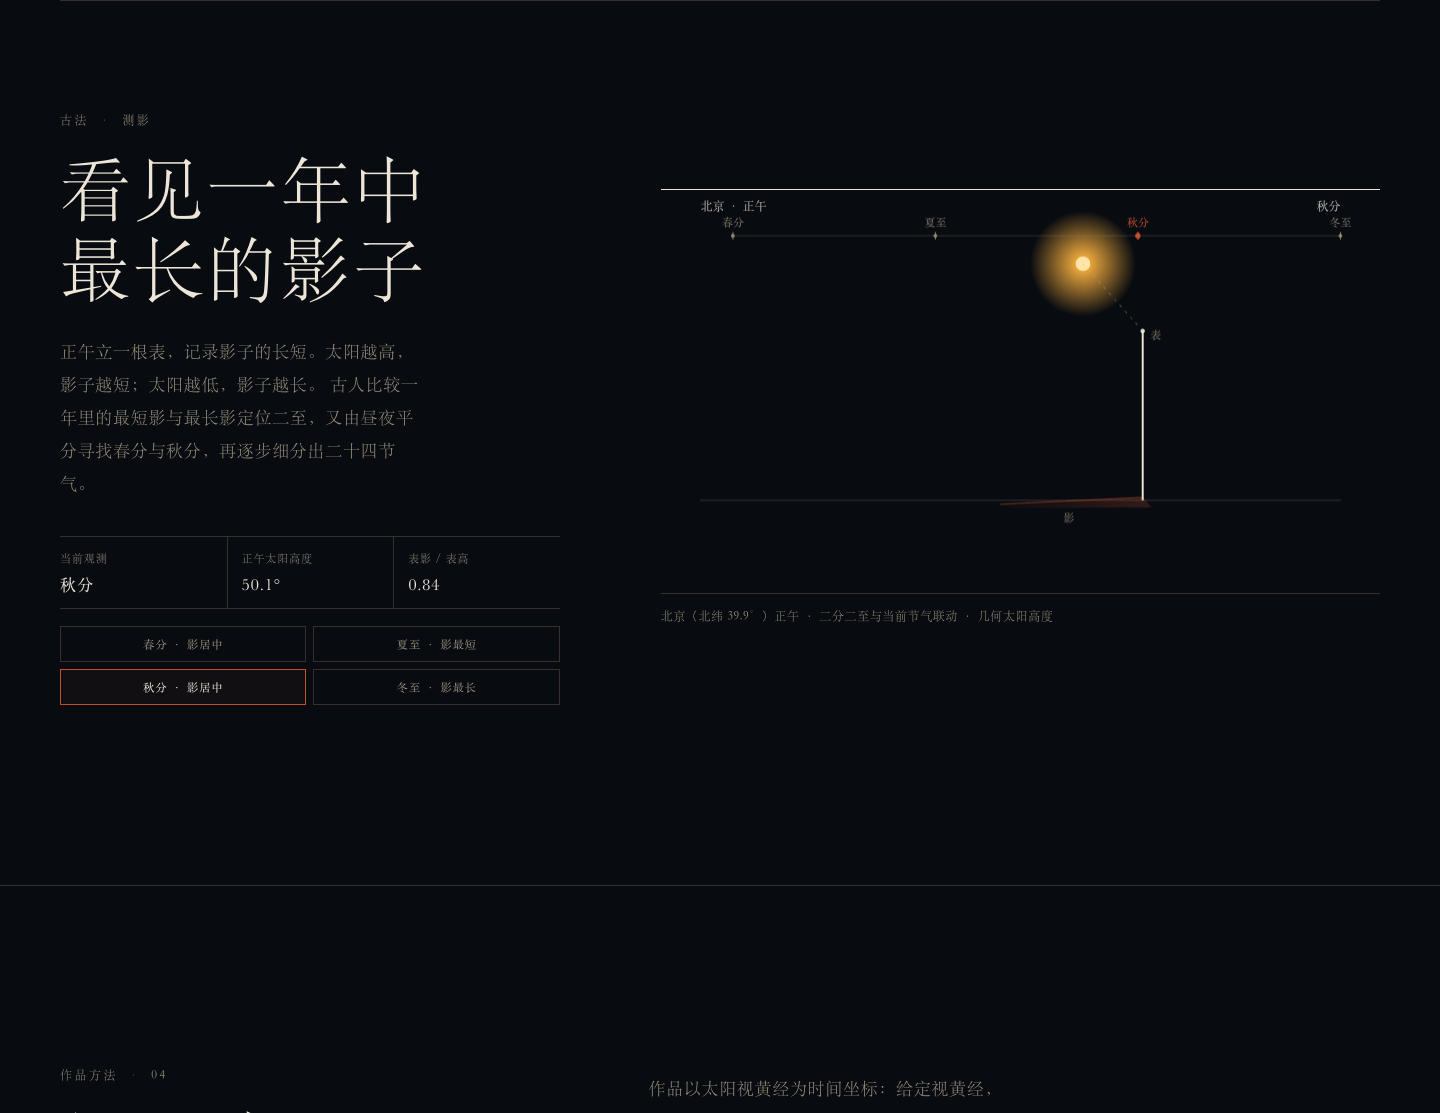
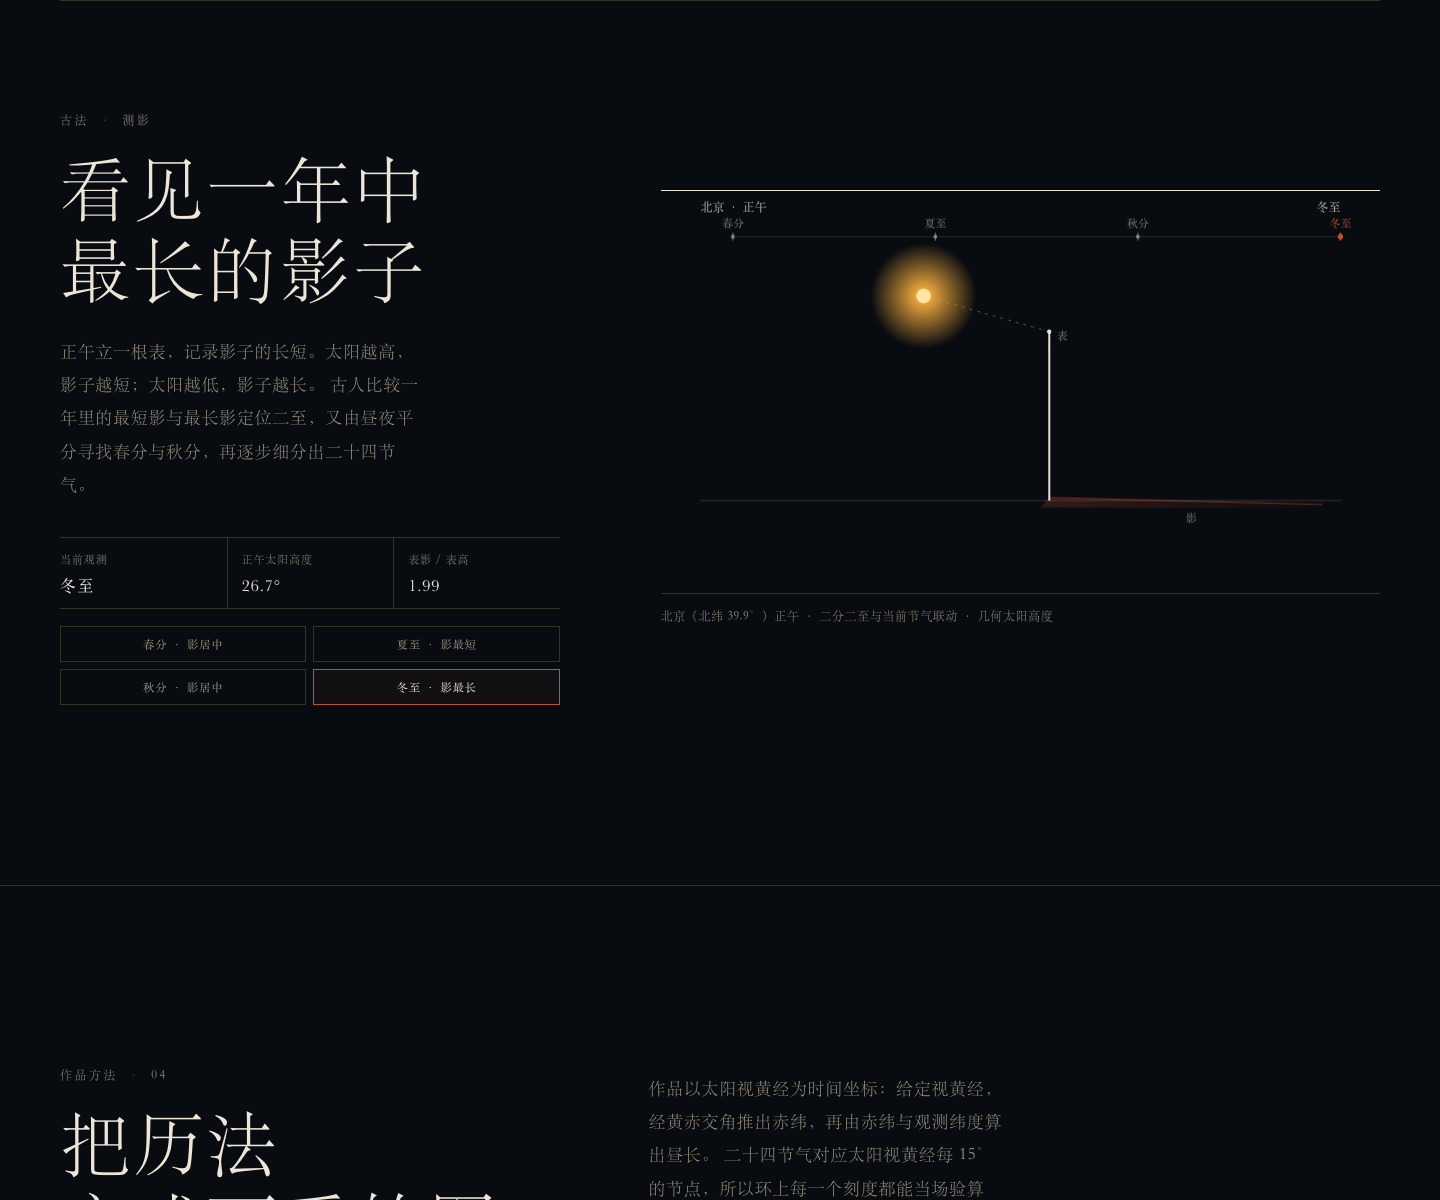
Fix gnomon shadow direction

diff --git a/app.js b/app.js
@@ -1122,9 +1122,11 @@
     var pad = Math.max(22, w * 0.055);
     var ground = h * 0.77;
     var poleH = h * 0.42;
-    var baseX = w * 0.67;
-    var shadow = clamp(poleH * ratio, 36, w * 0.42);
-    var sunX = baseX - shadow * 0.42;
+    // 太阳位于表杆左侧时，投影必须落在表杆右侧。
+    var baseX = w * 0.54;
+    var maxShadow = Math.max(56, w - pad - baseX - 18);
+    var shadow = clamp(poleH * ratio, 36, maxShadow);
+    var sunX = baseX - shadow * 0.46;
     var sunY = ground - poleH - (altitude / 90) * h * 0.30;
 
     // 地平线与表影
@@ -1135,19 +1137,19 @@
     gctx.moveTo(pad, ground); gctx.lineTo(w - pad, ground);
     gctx.stroke();
 
-    var sg = gctx.createLinearGradient(baseX, 0, baseX - shadow, 0);
+    var sg = gctx.createLinearGradient(baseX, 0, baseX + shadow, 0);
     sg.addColorStop(0, rgba(C["--accent"], 0.22));
     sg.addColorStop(1, rgba(C["--accent"], 0.015));
     gctx.fillStyle = sg;
     gctx.beginPath();
     gctx.moveTo(baseX, ground - 3);
-    gctx.lineTo(baseX - shadow, ground + 2);
-    gctx.lineTo(baseX - shadow + 9, ground + 8);
-    gctx.lineTo(baseX + 9, ground + 7);
+    gctx.lineTo(baseX + shadow, ground + 2);
+    gctx.lineTo(baseX + shadow - 9, ground + 8);
+    gctx.lineTo(baseX - 9, ground + 7);
     gctx.closePath();
     gctx.fill();
     gctx.strokeStyle = rgba(C["--accent"], 0.55);
-    gctx.beginPath(); gctx.moveTo(baseX, ground - 3); gctx.lineTo(baseX - shadow, ground + 4); gctx.stroke();
+    gctx.beginPath(); gctx.moveTo(baseX, ground - 3); gctx.lineTo(baseX + shadow, ground + 4); gctx.stroke();
     gctx.restore();
 
     // 太阳
@@ -1222,7 +1224,7 @@
     gctx.font = '11px "Songti SC",serif';
     gctx.textAlign = "center";
     gctx.fillText("表", baseX + 13, ground - poleH - 2);
-    gctx.fillText("影", baseX - shadow * 0.52, ground + 12);
+    gctx.fillText("影", baseX + shadow * 0.52, ground + 12);
     gctx.restore();
 
     gnomonTerm.textContent = st.n;
